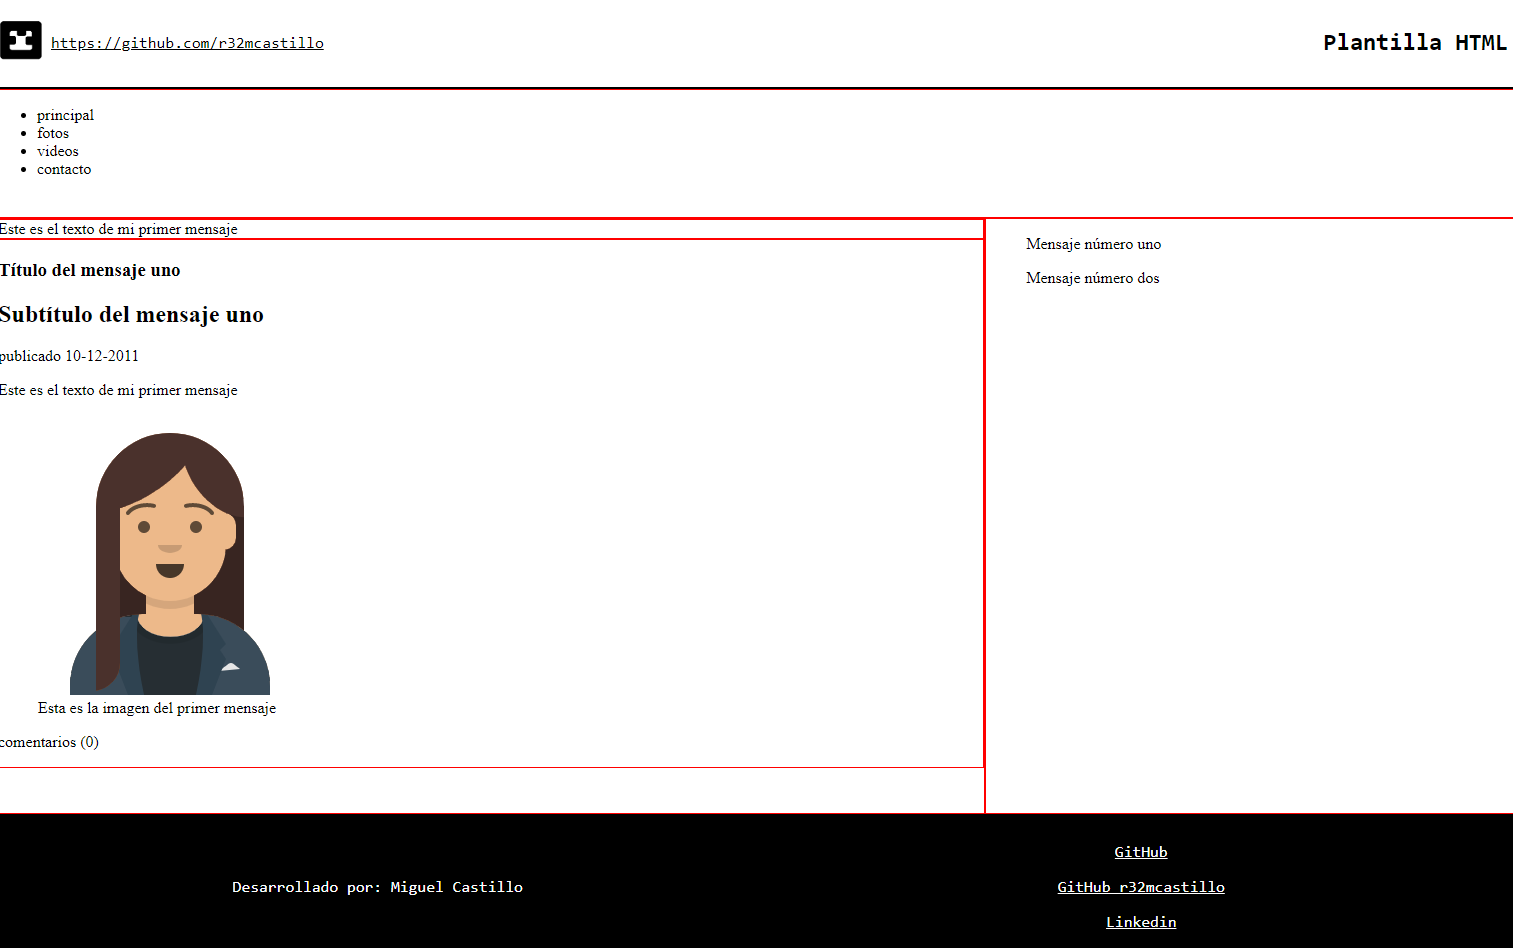
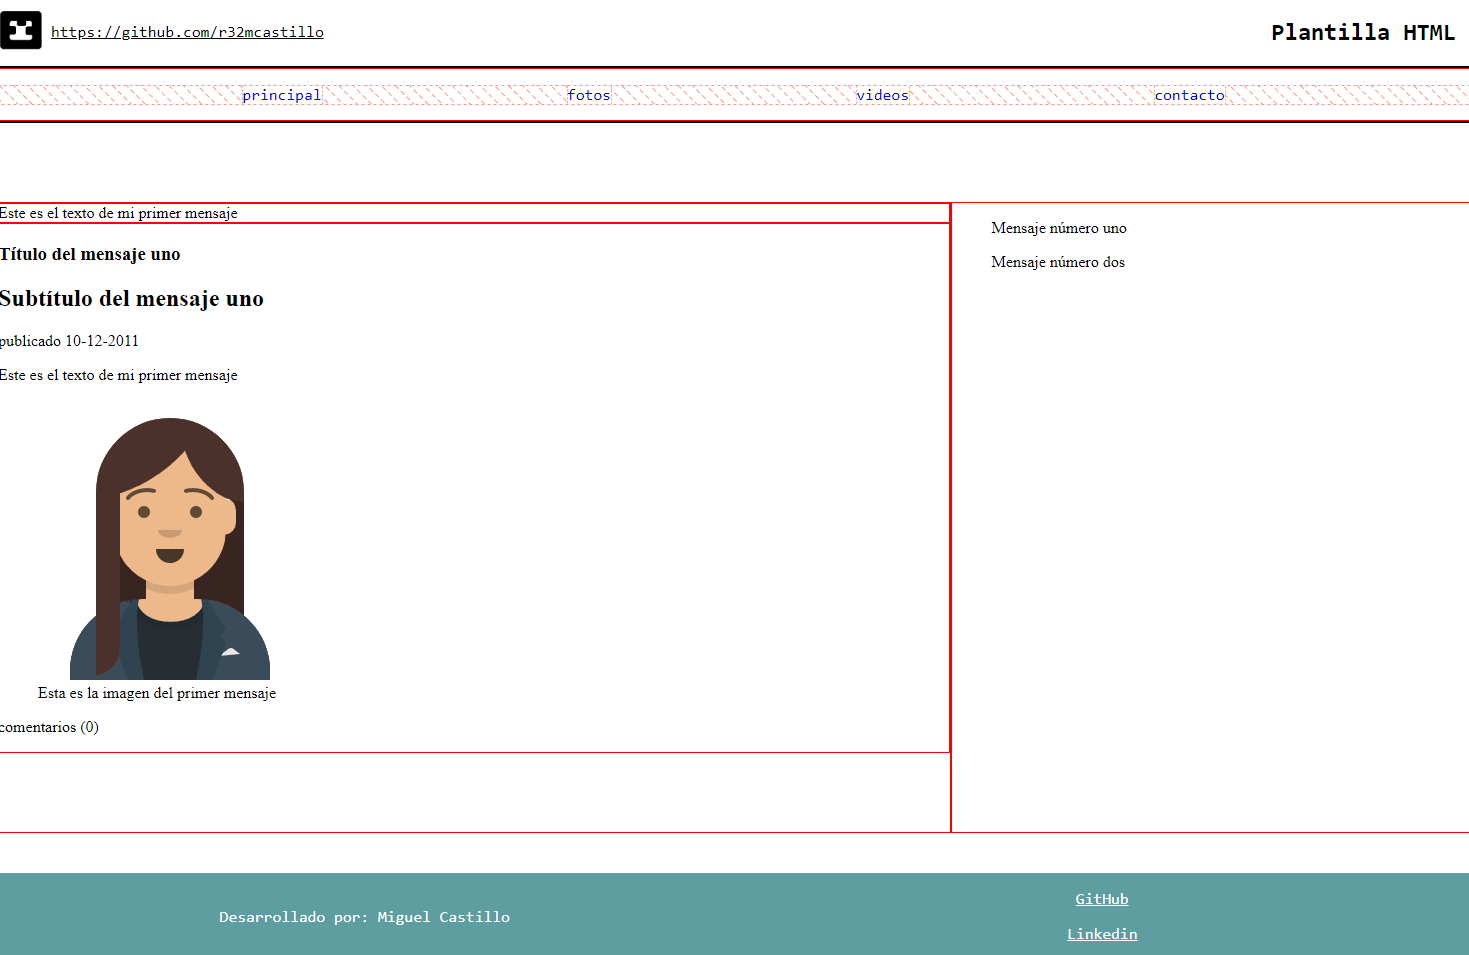
nav

Changed region(s): [[0.0, 0.0, 1.0, 1.0]]

diff --git a/01/index.html b/01/index.html
@@ -24,12 +24,12 @@
                 </div>
                 
             </div>
-            <nav class="item">
+            <nav class="item navbar__content">
                 <ul>
-                    <li>principal</li>
-                    <li>fotos</li>
-                    <li>videos</li>
-                    <li>contacto</li>
+                    <li><a href="/">principal</a></li>
+                    <li><a href="/">fotos</a></li>
+                    <li><a href="/">videos</a></li>
+                    <li><a href="/">contacto</a></li>
                 </ul>
             </nav>
         </header>

diff --git a/01/style.css b/01/style.css
@@ -110,3 +110,13 @@ footer {
     border-radius: 8px;
     border: solid black 2px;
 }
+
+.navbar__content ul{
+    display: flex;
+    justify-content: space-evenly;
+    list-style: none;
+    padding: 0;
+}
+.navbar__content ul li a {
+    text-decoration: none;
+}
